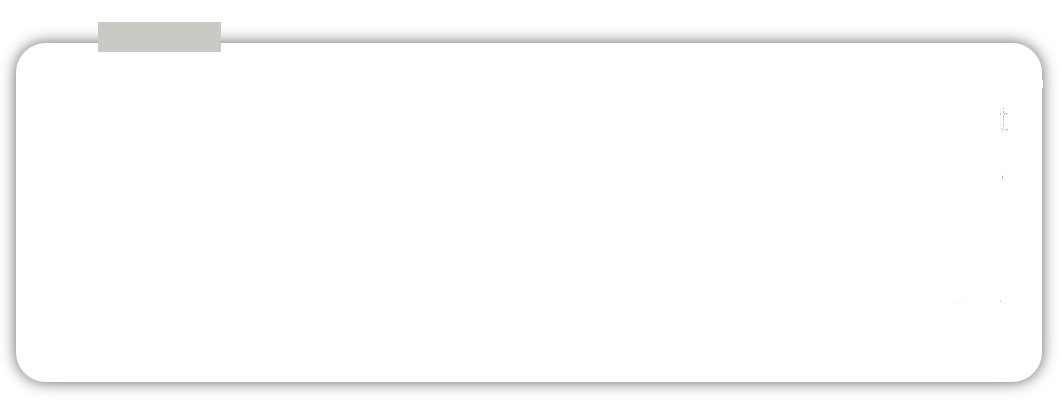
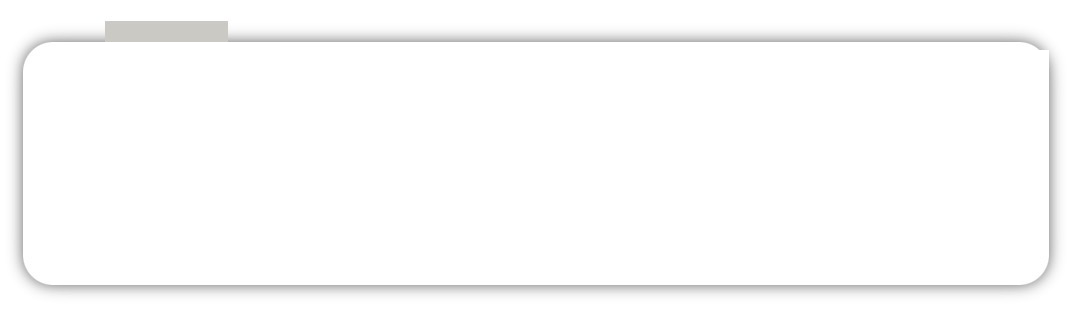
fix: use the narrower original heading card and keep numbers below the bar
Replace the oversized plate with the tighter artwork and overlay 01/04 plus bilingual titles at the measured positions so the number no longer collides with the top bar.

Changed region(s): [[0.0, 0.029, 0.9944, 0.929], [0.9633, 0.871, 0.9944, 0.9]]

diff --git a/src/lib/wechat-heading.js b/src/lib/wechat-heading.js
@@ -17,8 +17,8 @@ const RESERVED_HEADINGS = new Set([
 ]);
 
 const ORDINAL_RE = /^(?:(?:0?\d{1,2}|[一二三四五六七八九十百]+)[、.．]|[（(](?:0?\d{1,2}|[一二三四五六七八九十百]+)[)）])\s*/;
-export const HEADING_CARD_WIDTH = 1062;
-export const HEADING_CARD_HEIGHT = 412;
+export const HEADING_CARD_WIDTH = 1068;
+export const HEADING_CARD_HEIGHT = 310;
 export const HEADING_CARD_BACKGROUND = path.resolve(
   path.dirname(fileURLToPath(import.meta.url)),
   '..',
@@ -72,10 +72,10 @@ ${fontFace}
 html,body{margin:0;background:#FFFFFF}
 .canvas{position:relative;width:${HEADING_CARD_WIDTH}px;height:${HEADING_CARD_HEIGHT}px;overflow:hidden;background:#FFFFFF}
 .plate{position:absolute;inset:0;width:100%;height:100%;display:block}
-.index{position:absolute;left:98px;top:42px;margin:0;font-family:Georgia,"Times New Roman",serif;font-size:88px;line-height:.86;font-weight:400;color:#C9C8C4;letter-spacing:.01em}
-.copy{position:absolute;left:236px;right:52px;top:86px;text-align:right}
-.en{font-family:"Helvetica Neue",Helvetica,Arial,sans-serif;font-size:29px;line-height:1.12;font-weight:300;color:#A3A3A3;letter-spacing:.02em}
-.zh{margin-top:14px;font-family:"PingFang SC","Hiragino Sans GB","Noto Sans CJK SC","Noto Sans SC","Microsoft YaHei","Zen Heading CJK",sans-serif;font-size:50px;line-height:1.46;font-weight:400;color:#3E3E3E;letter-spacing:.11em}
+.index{position:absolute;left:108px;top:58px;margin:0;font-family:Georgia,"Times New Roman",serif;font-size:72px;line-height:.86;font-weight:400;color:#C9C8C4;letter-spacing:.02em}
+.copy{position:absolute;left:430px;right:56px;top:88px;text-align:right}
+.en{font-family:"Helvetica Neue",Helvetica,Arial,sans-serif;font-size:28px;line-height:1.15;font-weight:300;color:#A0A0A0;letter-spacing:.02em}
+.zh{margin-top:10px;font-family:"PingFang SC","Hiragino Sans GB","Noto Sans CJK SC","Noto Sans SC","Microsoft YaHei","Zen Heading CJK",sans-serif;font-size:40px;line-height:1.2;font-weight:400;color:#3E3E3E;letter-spacing:.08em}
 </style></head><body><div class="canvas" data-zen-heading-card="true"><img class="plate" alt="" src="${escapeAttr(backgroundUrl)}"><div data-zen-heading-index="true" class="index">${number}</div><div class="copy">${englishRow}<div data-zen-heading-zh="true" class="zh">${escapeHtml(chinese)}</div></div></div></body></html>`;
 }
 
@@ -162,7 +162,7 @@ export async function renderHeadingCardImages(cards, {
         }), { waitUntil: 'load' });
         await page.locator('.plate').evaluate((image) => new Promise((resolve, reject) => {
           const done = () => {
-            if (image.naturalWidth === 1062 && image.naturalHeight === 412) resolve();
+            if (image.naturalWidth === 1068 && image.naturalHeight === 310) resolve();
             else reject(new Error(`分区标题卡底板尺寸无效:${image.naturalWidth}x${image.naturalHeight}`));
           };
           if (image.complete) done();

diff --git a/test/wechat-render.test.js b/test/wechat-render.test.js
@@ -225,12 +225,12 @@ test('微信分区标题卡 HTML 锁定原图底板和原文字颜色', () => {
   assert.equal(document.querySelector('[data-zen-heading-index]').textContent, '01');
   assert.equal(document.querySelector('[data-zen-heading-en]').textContent, 'What Niu Lai Is About, at the Very Least');
   assert.equal(document.querySelector('[data-zen-heading-zh]').textContent, '《牛来》在最低限度上关于什么');
-  assert.match(html, /left:98px;top:42px/);
+  assert.match(html, /left:108px;top:58px/);
   assert.match(html, /text-align:right/);
   assert.match(html, /Helvetica Neue/);
   assert.match(html, /PingFang SC/);
   assert.match(html, /#C9C8C4/);
-  assert.match(html, /#A3A3A3/);
+  assert.match(html, /#A0A0A0/);
   assert.match(html, /#3E3E3E/);
 });
 
